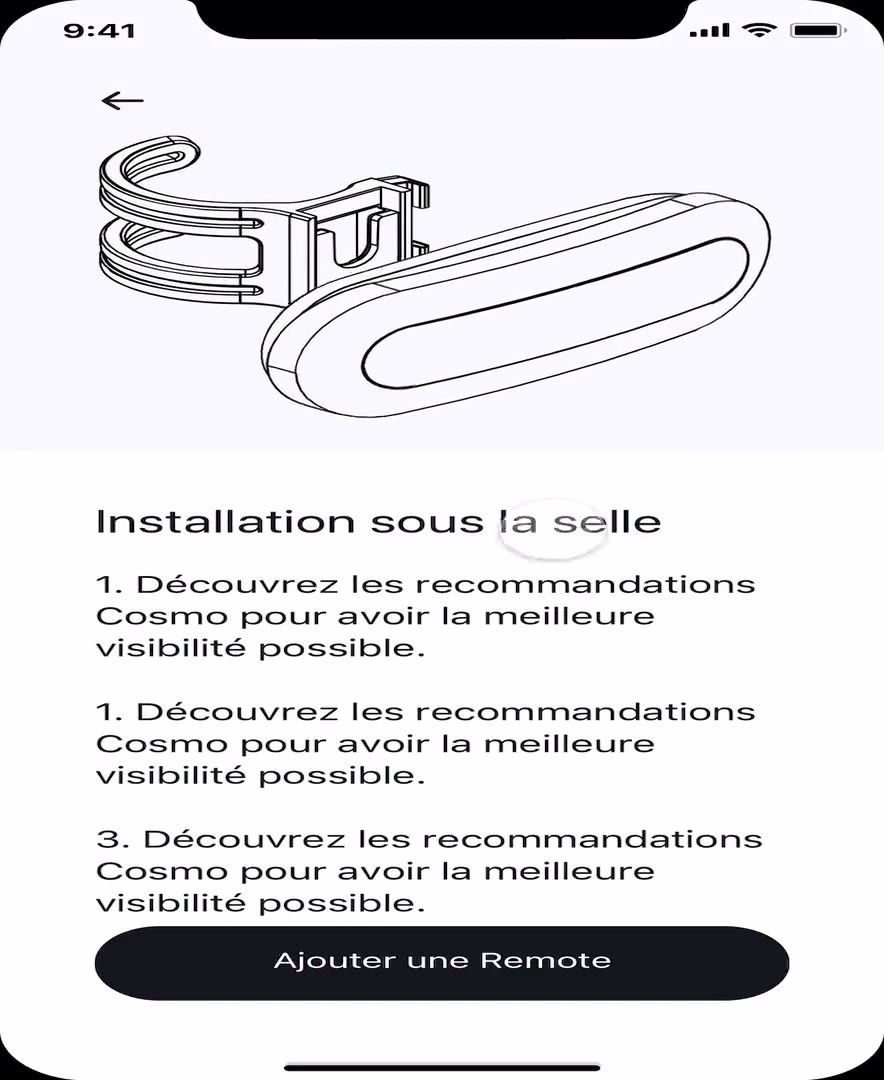
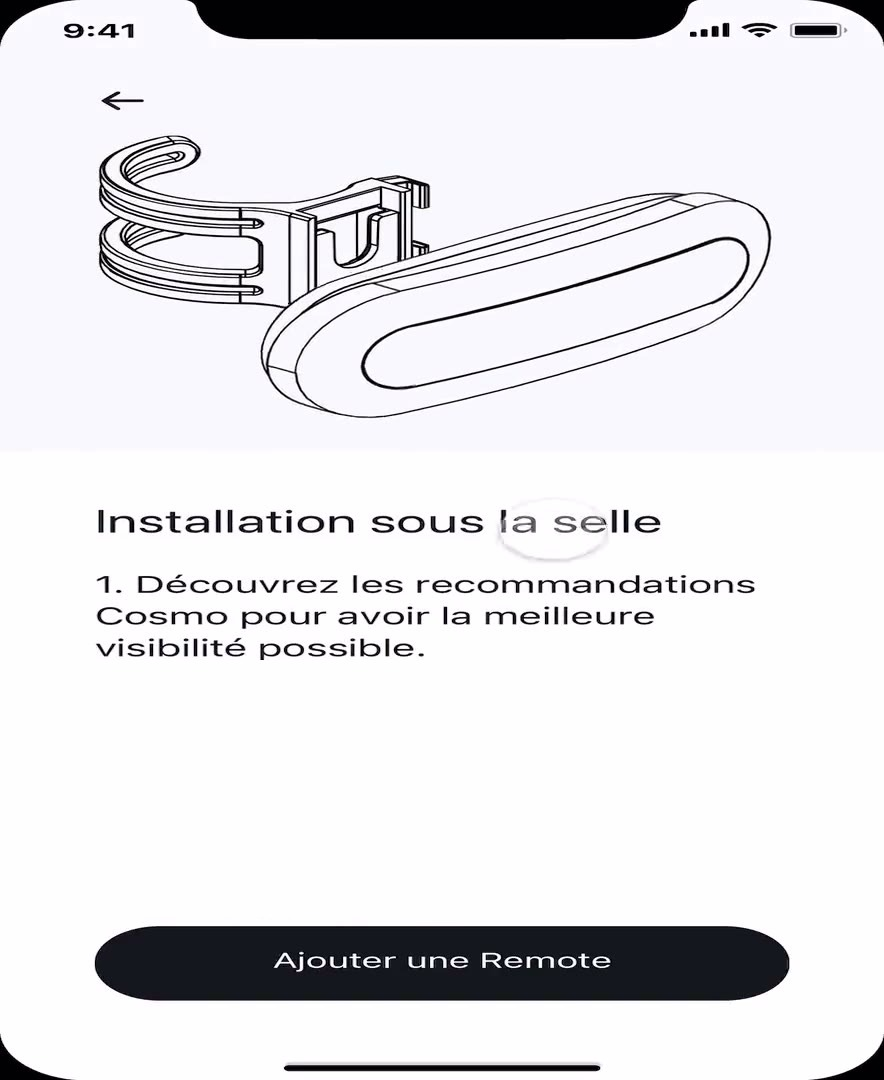
Add device-frame fidelity to rebuilt work visuals
Notch + side buttons on the phone chrome, status icons and street
labels on the Cityscoot map plate, shadowed pins — reads as a device
screenshot rather than a diagram. Also swaps in a cleaner FTV
player-spec crop and tightens the Cosmo Connected alt text.

Changed region(s): [[0.0916, 0.7639, 0.8552, 0.8556], [0.0916, 0.6417, 0.8552, 0.7333]]

diff --git a/src/data/works.ts b/src/data/works.ts
@@ -202,8 +202,8 @@ export const WORKS: Work[] = [
           body: "Product work like this only holds if the components are specified rather than described. The player carries a live “Direct” tag, and the progress bar behaves differently when it is present: what is drawn, what truncates, which timing labels stay. Documented that way, the rule survives handoff and the next team that touches it.",
           images: [
             {
-              src: "/work/ftv.jpg",
-              alt: "Player specification board: Direct tag and progress bar states",
+              src: "/work/ftv-player-spec.jpg",
+              alt: "Player specification: progress bar with and without the live Direct tag",
               fit: "contain",
               bg: SLIDE_BG,
               caption: "Player specification — the Direct tag and its progress bar.",
@@ -428,7 +428,7 @@ export const WORKS: Work[] = [
           images: [
             {
               src: "/work/shots/cosmo-install.jpg",
-              alt: "Installation instructions drawn as line art with numbered steps",
+              alt: "Line-art illustration of the light unit clipping onto its saddle mount, above the installation screen heading",
               fit: "contain",
               bg: PHONE_BG,
               caption: "Drawn, not photographed — legibility beats realism outdoors.",
